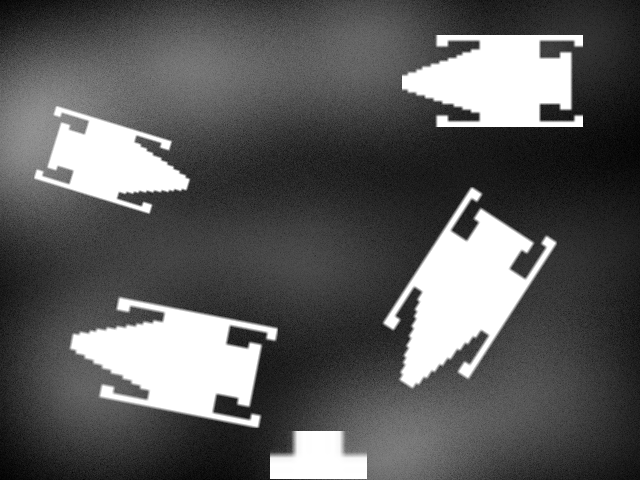
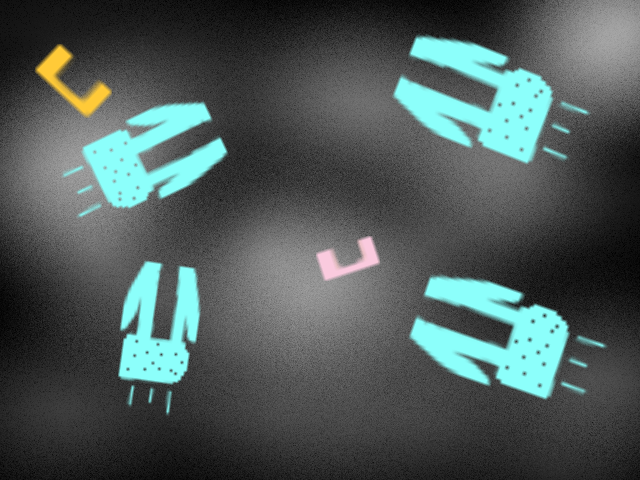
Added new artwork

diff --git a/src/scenes/Play.js b/src/scenes/Play.js
@@ -7,13 +7,14 @@ class Play extends Phaser.Scene {
         this.load.image('starfield', 'assets/starfield.png'); 
         this.load.image('rocket', 'assets/rocket.png');
         this.load.image('spaceship', 'assets/spaceship.png');
-        this.load.spritesheet('explosion', 'assets/explosion.png', {frameWidth: 64, frameHeight: 32, startFrame: 0, endFrame: 9});
+        this.load.spritesheet('explosion', 'assets/explosion.png', {frameWidth: 80, frameHeight: 50, startFrame: 0, endFrame: 9});
         this.load.audio('sfx_explosion', 'assets/explosion38.wav');
         this.load.audio('sfx_rocket', 'assets/rocket_shot.wav');
         this.load.audio('backgroundMusic', 'assets/nanophage.mp3');
         this.load.image('smallspaceship', 'assets/spaceshipSmall.png');
         this.load.image('uiborder', 'assets/uiborder.png');
         this.load.image('greenborder', 'assets/greenBorder.png');
+        this.load.image('rocket2', 'assets/rocket2.png');
     }
 
     create() {
@@ -24,7 +25,7 @@ class Play extends Phaser.Scene {
 
         // Create a Rocket
         this.p1Rocket = new RocketP1(this, game.config.width/2 + 30, game.config.height - borderUISize - borderPadding, 'rocket').setOrigin(0.5,0);
-        this.p2Rocket = new RocketP2(this, game.config.width/2 - 30, game.config.height - borderUISize - borderPadding, 'rocket').setOrigin(0.5,0);
+        this.p2Rocket = new RocketP2(this, game.config.width/2 - 30, game.config.height - borderUISize - borderPadding, 'rocket2').setOrigin(0.5,0);
         
         // Create Ships
         this.ship1 = new Ship(this, game.config.width + borderUISize*6, borderUISize*4, 'spaceship', 0, 30).setOrigin(0, 0);
@@ -56,7 +57,7 @@ class Play extends Phaser.Scene {
         this.anims.create({
             key: 'explode',
             frames: this.anims.generateFrameNumbers('explosion', { start: 0, end: 9, first: 0}),
-            frameRate: 30
+            frameRate: 20
         });
 
         // initialize score
@@ -67,7 +68,7 @@ class Play extends Phaser.Scene {
         let scoreConfig1 = {
             fontFamily: 'Courier',
             fontSize: '28px',
-            backgroundColor: '#F3B141',
+            backgroundColor: '#FACADE',
             color: '#843605',
             align: 'right',
             padding: {
@@ -80,7 +81,7 @@ class Play extends Phaser.Scene {
         let scoreConfig2 = {
             fontFamily: 'Courier',
             fontSize: '28px',
-            backgroundColor: '#FACADE',
+            backgroundColor: '#F3B141',
             color: '#843605',
             align: 'right',
             padding: {

diff --git a/src/scenes/Menu.js b/src/scenes/Menu.js
@@ -12,17 +12,18 @@ class Menu extends Phaser.Scene {
         let menuConfig = {
             fontFamily: 'Impact',
             fontSize: '38px',
-            backgroundColor: '#BLACK',
+            backgroundColor: '#222021',
             color: '#FACADE',
             align: 'right',
             padding: {
-            top: 5,
-            bottom: 5,
+            top: 1,
+            bottom: 1,
             },
             fixedWidth: 0
         }
         this.menubg = this.add.tileSprite(0, 0, 640, 480, 'menubg').setOrigin(0, 0);
         this.add.text(game.config.width/2, game.config.height/4 - borderUISize - borderUISize, 'ROCKET PATROL MODDED', menuConfig).setOrigin(0.5);
+        this.add.text(game.config.width/2, game.config.height/2.8 - borderUISize - borderUISize, '2 PLAYER', menuConfig).setOrigin(0.5);
         this.add.text(game.config.width/2, game.config.height/1.4, 'P1: Use <--> arrows to move & (F) to fire', menuConfig).setOrigin(0.5);
         this.add.text(game.config.width/2, game.config.height/3 + borderUISize + borderPadding, 'Press <- for Novice or -> for Expert', menuConfig).setOrigin(0.5);
         this.add.text(game.config.width/2, game.config.height/1.1, 'P2: Use A and D to move & (SPACE) to fire', menuConfig).setOrigin(0.5);
